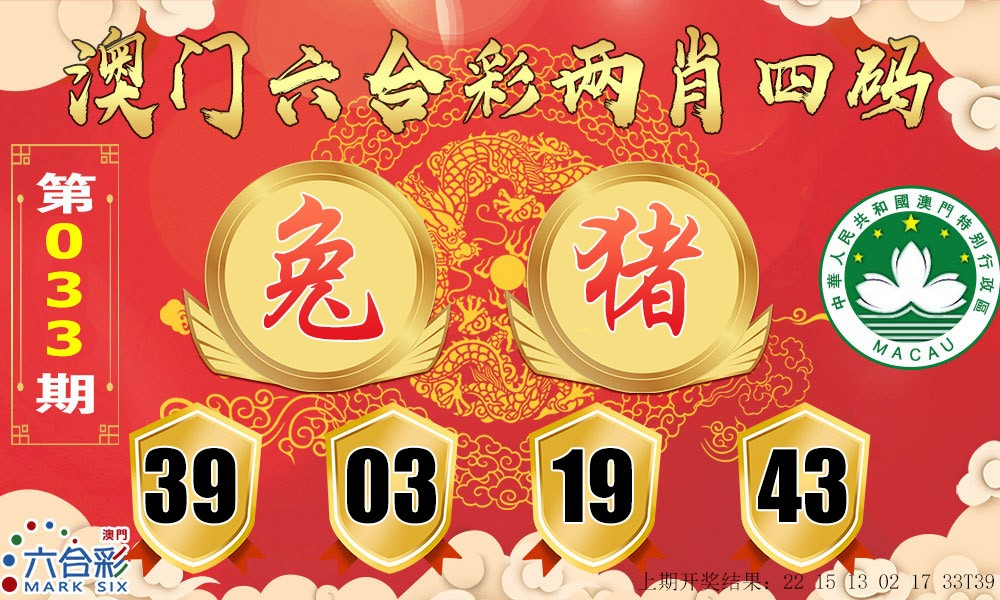
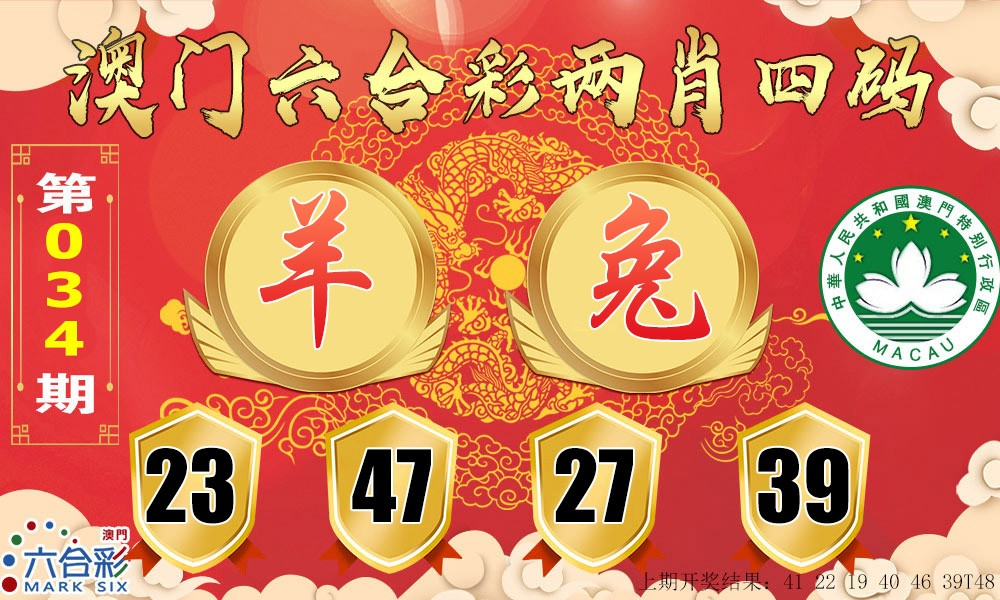
Update:  2025.02.03 11:20:40

diff --git a/Script/Src/xjw/杀两肖图.js b/Script/Src/xjw/杀两肖图.js
@@ -75,9 +75,9 @@ document.writeln("				<tr style=\'box-sizing: border-box;\'>");
 document.writeln("					<td height=\'40\' style=\'box-sizing: border-box;\'>");
 document.writeln("			<p align=\'center\' style=\'box-sizing: border-box; padding: 0px; margin: 0px;\'>");
 document.writeln("			<font size=\'4\' style=\'margin: 0px; padding: 0px;\'>");
-document.writeln("			034期玄机网禁两肖<font color=\'#FF0000\'>【更新中】</font>特开<font color=\'#0000FF\'>？00</font>准<br>");
-document.writeln("			034期澳门杀两肖图<font color=\'#FF0000\'>【更新中】</font>特开<font color=\'#0000FF\'>？00</font>准<br>");
-document.writeln("			034期澳门图库禁肖<font color=\'#FF0000\'>【更新中】</font>特开<font color=\'#0000FF\'>？00</font>准</font></font></p></td>");
+document.writeln("			034期玄机网禁两肖<font color=\'#FF0000\'>【牛鸡】</font>特开<font color=\'#0000FF\'>？00</font>准<br>");
+document.writeln("			034期澳门杀两肖图<font color=\'#FF0000\'>【牛羊】</font>特开<font color=\'#0000FF\'>？00</font>准<br>");
+document.writeln("			034期澳门图库禁肖<font color=\'#FF0000\'>【羊牛】</font>特开<font color=\'#0000FF\'>？00</font>准</font></font></p></td>");
 document.writeln("		</tr>");
 document.writeln("<!--结束-->	");
 document.writeln("		");
